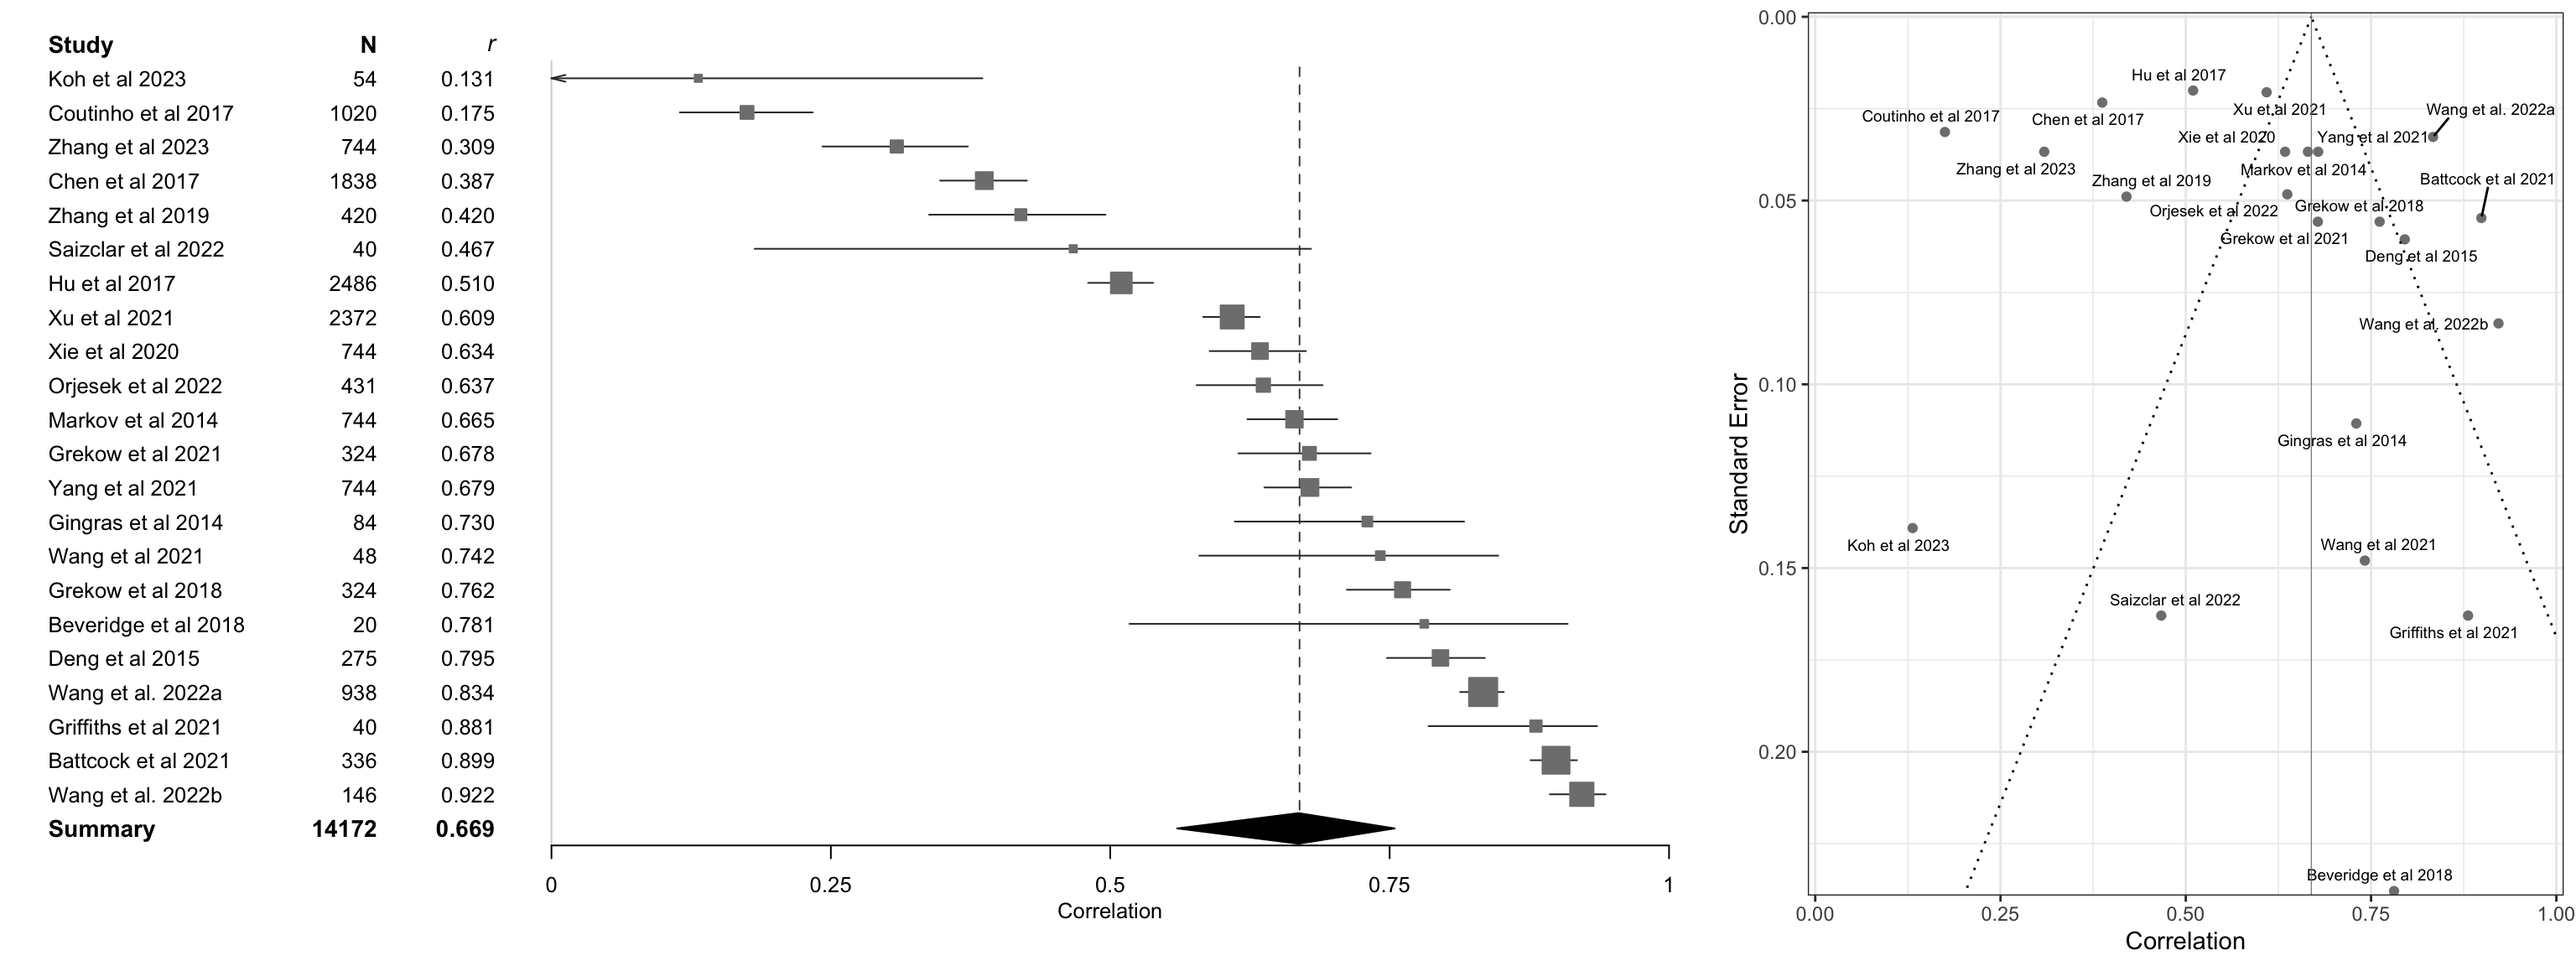
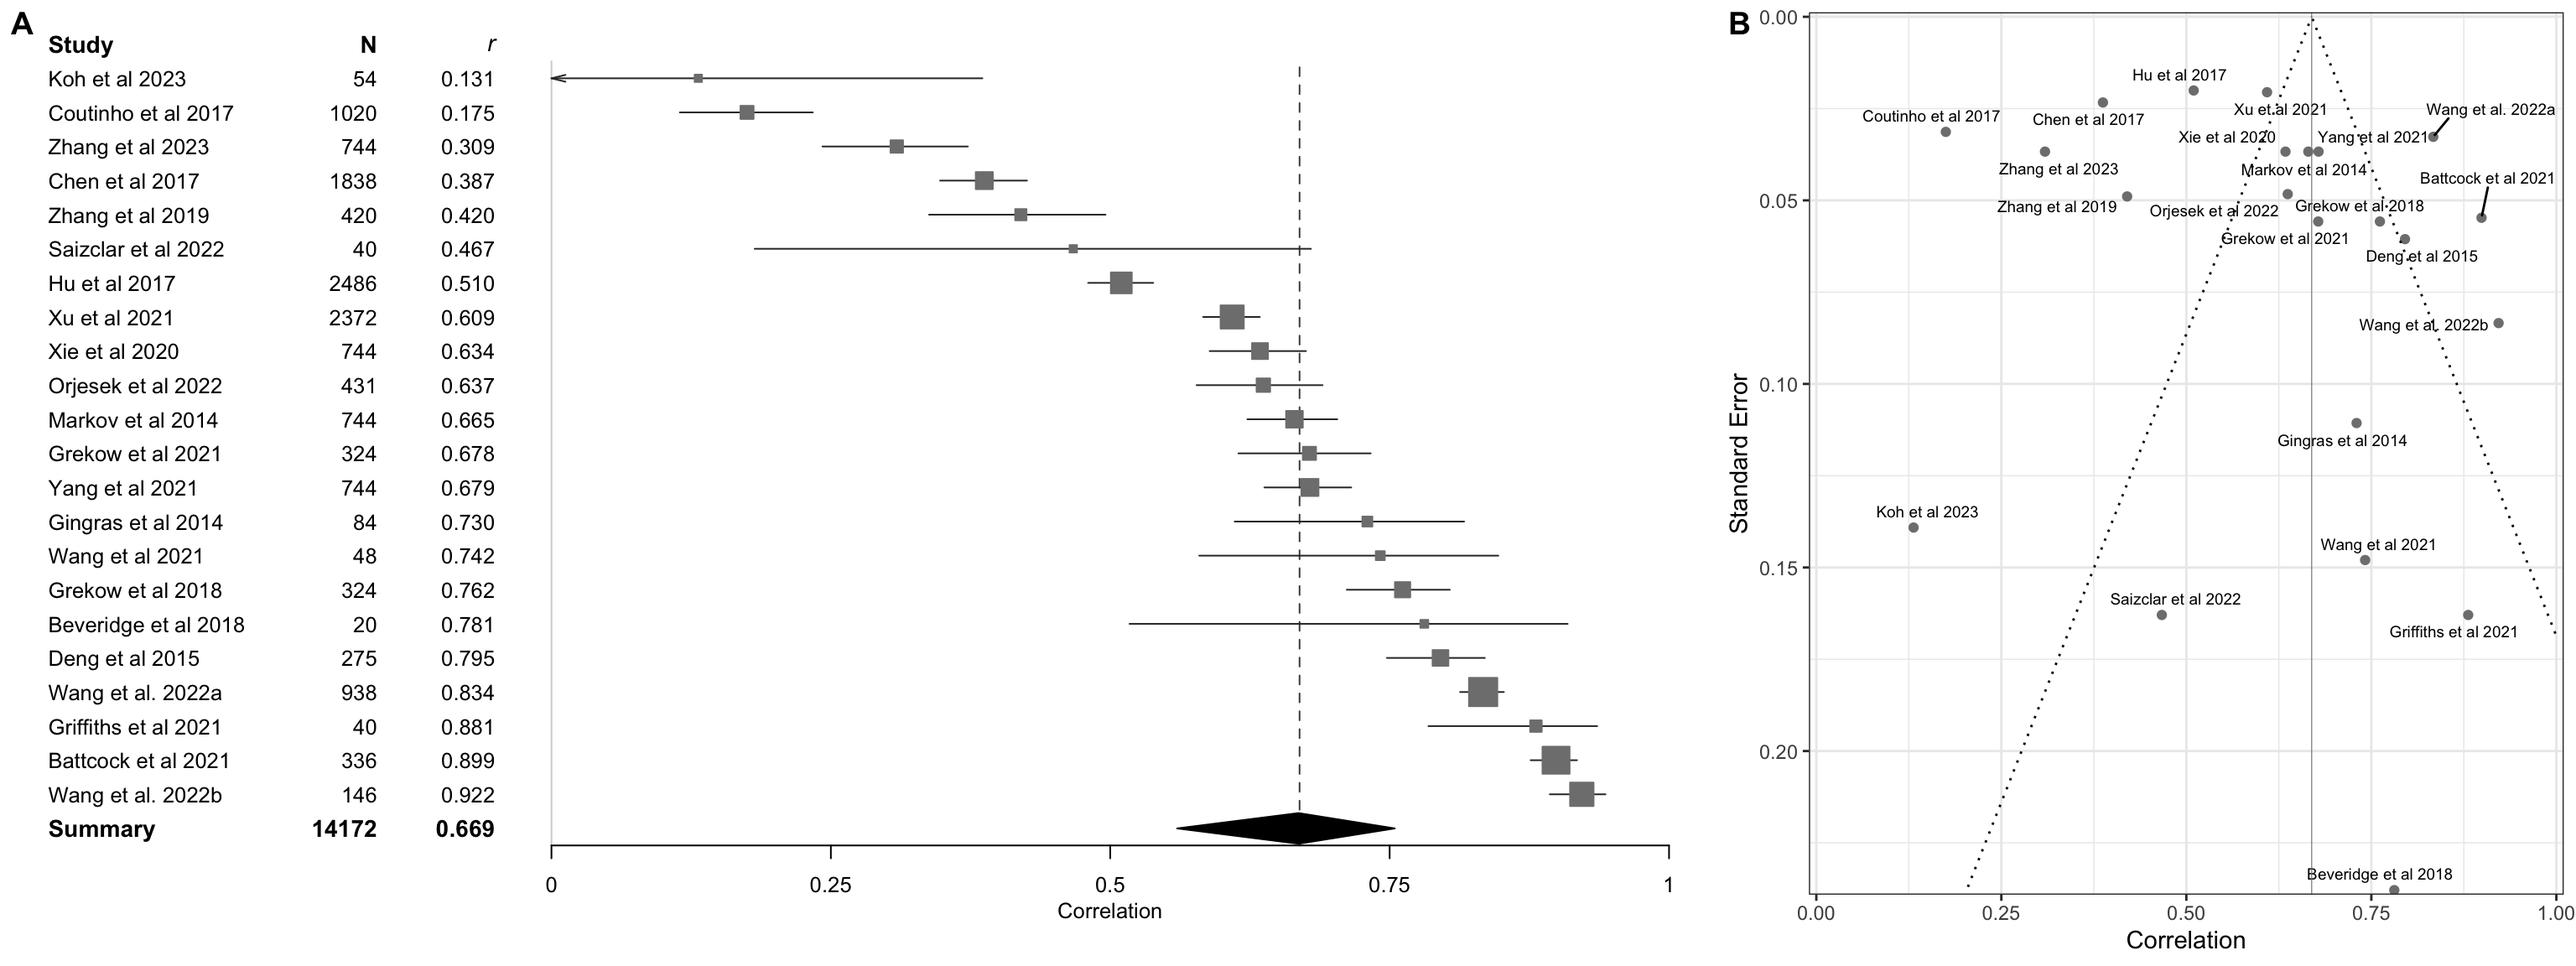
updated manuscript up to arousal. A mod to renv.lock added ggpubr package

diff --git a/docs/manuscript/manuscript.html b/docs/manuscript/manuscript.html
@@ -626,7 +626,7 @@ window.Quarto = {
 </section>
 <section id="results-for-arousal" class="level3">
 <h3 class="anchored" data-anchor-id="results-for-arousal">Results for arousal</h3>
-<p>Moving on the arousal, we carry out the same meta-analytical analysis applying the random-effects model to arousal. Table 3 describes the broad pattern of results in tabular format, and Figure 3 illustrates the spread and heterogeneity of all studies for arousal. The overall correlation across the studies using the best performing model out of each study (Max) is 0.807 (CI95% 0.745-0.855). If we examine all the models reported in each study, the correlation drops marginally, to 0.784 (CI95% 0.765-0.801), despite this analysis includes about five times as many models as taking the best model out of each study. For arousal, even the baseline models seem to be performing on a relative high level. However, the indicators of heterogeneity are again high (<span class="math inline">\(\tau^2\)</span> = 0.155 and <span class="math inline">\(I^2\)</span>=96.8%), which suggests that summary may be misleading. However, the analysis of asymmetry does not reveal significant issues (Eggers test, <span class="math inline">\(\beta\)</span> = 0.787 95%CI -4.61-6.18, <em>t</em> = 0.286, <em>p</em> = 0.778). If we remove the studies that are outside the 95%CI in heterogeneity, leaves this 14 studies in the summary that has <em>r</em> = 0.8182 (95%CI 0.802-0.833) with <span class="math inline">\(\tau^2\)</span> = 0.0038 and <span class="math inline">\(I^2\)</span> = 76.0%. In other words, no material difference to the results obtained with all 24 studies.</p>
+<p>Moving on the arousal, we carry out the same meta-analytical analysis applying the random-effects model to arousal. Table 3 describes the broad pattern of results in tabular format, and Figure 3 illustrates the spread and heterogeneity of all studies for arousal. The overall correlation across the studies using the best performing model out of each study (Max) is 0.809 (CI95% 0.740-0.860). If we examine all the models reported in each study, the correlation drops marginally, to 0.791 (CI95% 0.770-0.810), despite this analysis includes about four times as many models as taking the best model out of each study. For arousal, even the baseline models seem to be performing on a relative high level. However, the indicators of heterogeneity are again high (<span class="math inline">\(\tau^2\)</span> = 0.141 and <span class="math inline">\(I^2\)</span>=97.9%), which suggests that summary may be misleading. However, the analysis of asymmetry does not reveal significant issues (Eggers test, <span class="math inline">\(\beta\)</span> = 0.789 95%CI -4.87-6.45, <em>t</em> = 0.273, <em>p</em> = 0.788). If we remove the studies that are outside the 95%CI in heterogeneity, leaves this 13 studies in the summary that has <em>r</em> = 0.826 (95%CI 0.806-0.845) with <span class="math inline">\(\tau^2\)</span> = 0.0042 and <span class="math inline">\(I^2\)</span> = 76.8%. In other words, no material difference to the results obtained with all 22 studies.</p>
 <p>Table 3. Meta-analytic diagnostic for all regression studies predicting arousal from audio.</p>
 <table class="table">
 <colgroup>
@@ -652,21 +652,21 @@ window.Quarto = {
 <tbody>
 <tr class="odd">
 <td style="text-align: left;">Arousal All</td>
-<td style="text-align: left;">90, 61733</td>
-<td style="text-align: left;">0.795 [0.774-0.814]</td>
-<td style="text-align: left;">39.4</td>
+<td style="text-align: left;">102, 60017</td>
+<td style="text-align: left;">0.791 [0.770-0.810]</td>
+<td style="text-align: left;">39.9</td>
 <td style="text-align: left;">0.0001</td>
-<td style="text-align: left;">0.064</td>
-<td style="text-align: left;">96.3%</td>
+<td style="text-align: left;">0.069</td>
+<td style="text-align: left;">96.2%</td>
 </tr>
 <tr class="even">
 <td style="text-align: left;">Arousal Max</td>
-<td style="text-align: left;">21, 13572</td>
-<td style="text-align: left;">0.815 [0.749-0.865]</td>
-<td style="text-align: left;">14.0</td>
+<td style="text-align: left;">22, 14172</td>
+<td style="text-align: left;">0.809 [0.740-0.860]</td>
+<td style="text-align: left;">13.6</td>
 <td style="text-align: left;">0.0001</td>
-<td style="text-align: left;">0.131</td>
-<td style="text-align: left;">97.7%</td>
+<td style="text-align: left;">0.141</td>
+<td style="text-align: left;">97.9%</td>
 </tr>
 <tr class="odd">
 <td style="text-align: left;"><em>N Features</em></td>
@@ -679,30 +679,30 @@ window.Quarto = {
 </tr>
 <tr class="even">
 <td style="text-align: left;">&lt;18 F</td>
-<td style="text-align: left;">5, 3036</td>
-<td style="text-align: left;">0.811 [0.534-0.931]</td>
+<td style="text-align: left;">4, 3016</td>
+<td style="text-align: left;">0.817 [0.361-0.958]</td>
 <td style="text-align: left;"></td>
 <td style="text-align: left;"></td>
-<td style="text-align: left;">0.1815</td>
-<td style="text-align: left;">98.9%</td>
+<td style="text-align: left;">0.2295</td>
+<td style="text-align: left;">99.2%</td>
 </tr>
 <tr class="odd">
 <td style="text-align: left;">18-260 F</td>
-<td style="text-align: left;">11, 7042</td>
-<td style="text-align: left;">0.584 [0.534-0.931]</td>
+<td style="text-align: left;">10, 4222</td>
+<td style="text-align: left;">0.586 [0.356-0.748]</td>
 <td style="text-align: left;"></td>
 <td style="text-align: left;"></td>
-<td style="text-align: left;">0.1331</td>
-<td style="text-align: left;">97.6%</td>
+<td style="text-align: left;">0.1542</td>
+<td style="text-align: left;">96.9%</td>
 </tr>
 <tr class="even">
 <td style="text-align: left;">260+ F</td>
-<td style="text-align: left;">5, 3494</td>
-<td style="text-align: left;">0.710 [0.542-0.823]</td>
+<td style="text-align: left;">7, 6190</td>
+<td style="text-align: left;">0.702 [0.612-0.774]</td>
 <td style="text-align: left;"></td>
 <td style="text-align: left;"></td>
-<td style="text-align: left;">0.0435</td>
-<td style="text-align: left;">97.2%</td>
+<td style="text-align: left;">0.0285</td>
+<td style="text-align: left;">96.6%</td>
 </tr>
 <tr class="odd">
 <td style="text-align: left;"><em>Techniques</em></td>
@@ -715,17 +715,17 @@ window.Quarto = {
 </tr>
 <tr class="even">
 <td style="text-align: left;">KS</td>
-<td style="text-align: left;">2, 2582</td>
-<td style="text-align: left;">0.807 [0.549-0.924]</td>
+<td style="text-align: left;">1, 1838</td>
+<td style="text-align: left;">0.819 [0.803-0.833]</td>
 <td style="text-align: left;"></td>
 <td style="text-align: left;"></td>
-<td style="text-align: left;">0.0022</td>
-<td style="text-align: left;">70.0%</td>
+<td style="text-align: left;">-</td>
+<td style="text-align: left;">-</td>
 </tr>
 <tr class="odd">
 <td style="text-align: left;">LM</td>
-<td style="text-align: left;">7, 1438</td>
-<td style="text-align: left;">0.885 [0.796-0.936]</td>
+<td style="text-align: left;">8, 1762</td>
+<td style="text-align: left;">0.881 [0.808-0.928]</td>
 <td style="text-align: left;"></td>
 <td style="text-align: left;"></td>
 <td style="text-align: left;">0.0846</td>
@@ -742,8 +742,8 @@ window.Quarto = {
 </tr>
 <tr class="odd">
 <td style="text-align: left;">NN</td>
-<td style="text-align: left;">3, 1229</td>
-<td style="text-align: left;">0.533 [0.082-0.803]</td>
+<td style="text-align: left;">4, 2249</td>
+<td style="text-align: left;">0.533 [0.328-0.691]</td>
 <td style="text-align: left;"></td>
 <td style="text-align: left;"></td>
 <td style="text-align: left;">0.0190</td>
@@ -755,13 +755,16 @@ window.Quarto = {
 <td style="text-align: left;">0.809 [0.733-0.864]</td>
 <td style="text-align: left;"></td>
 <td style="text-align: left;"></td>
-<td style="text-align: left;">0.0012</td>
-<td style="text-align: left;">52.7%</td>
+<td style="text-align: left;">0.0025</td>
+<td style="text-align: left;">65.4%</td>
 </tr>
 </tbody>
 </table>
-<p>The forest plot in Figure 3 reveals</p>
-<p>The subdivision of studies shows…</p>
+<!-- numbers in the text updated up to here, TE 22/1/2025 -->
+<!-- Schwarzer and colleagues (Schwarzer, Carpenter, and Rücker 2015, chap. 4.3) mention, as a general rule of thumb, that subgroup analyses only make sense when your meta-analysis contains at least 
+K= 10 studies.-->
+<p>Figure 3 presents (A) a forest and (B) funnel plot of the random-effects model of the best-performing models from all studies. Similarly to valence, the range of correlations is also wide for arousal, ranging from 0.35 to 0.95, with all studies demonstrating evidence of positive correlations. A mean estimate of 0.81 or higher is achieved by the majority (15 out of the 22 models). Due to large sample in ost studies, the confidence intervals are narrow, although the exceptions (<span class="math inline">\(N &lt; 55\)</span>) are clearly visible <span class="citation" data-cites="beveridge2018po griffiths2021am koh2023me saizclar2022pr wang2021ac">(<a href="#ref-beveridge2018po" role="doc-biblioref">Beveridge &amp; Knox, 2018</a>; <a href="#ref-griffiths2021am" role="doc-biblioref">Griffiths et al., 2021</a>; <a href="#ref-koh2023me" role="doc-biblioref">Koh et al., 2023</a>; <a href="#ref-saizclar2022pr" role="doc-biblioref">Saiz-Clar et al., 2022</a>; <a href="#ref-wang2021ac" role="doc-biblioref">Wang et al., 2021</a>)</span>. The funnel plot in panel B illustrates the limited range of the correlations and show heavy clustering at the top of the plot (studies with low standard error). There is no clear asymmetry in the plot, verified by non-significant Egger’s test reported above.</p>
+<p>The analysis of the subdivision of studies shows that there is no significant differences between the studies using different number of features (<em>Q</em>(2) = 3.47, <em>p</em> = .176) despite the differing means (<em>r</em> = 0.817 for studies with less than 18 features, <em>r</em> = 0.586 for 18 to 260 features, and <em>r</em> = 0.702 for studies utilising over 260 features). The differences in the techniques, however, does show variance between subgroups that is statistically significant (<em>Q</em>(4) = 50.47, <em>p</em> &lt; .0001), where at least Neural Nets achieve poor prediction of arousal (<em>r</em> = 0.533) in comparison to other techniques. The caveat of this subgroup analysis is the small number of observations for five techniques. When other subgroupings were explored, such as the type of journal (Engineering with 13 studies vs Psychology with 9 studies), no significant differences were observed (<em>Q</em>(1) = 0.94, <em>p</em> = .333).</p>
 <div class="cell">
 <div class="cell-output-display">
 <div class="quarto-figure quarto-figure-center">
@@ -974,6 +977,9 @@ Katayose, H., Imai, M., &amp; Inokuchi, S. (1988). Sentiment extraction in music
 <div id="ref-knapp2003improved" class="csl-entry" role="listitem">
 Knapp, G., &amp; Hartung, J. (2003). Improved tests for a random effects meta-regression with a single covariate. <em>Statistics in Medicine</em>, <em>22</em>(17), 2693–2710.
 </div>
+<div id="ref-koh2023me" class="csl-entry" role="listitem">
+Koh, E. Y., Cheuk, K. W., Heung, K. Y., Agres, K. R., &amp; Herremans, D. (2023). MERP: A music dataset with emotion ratings and raters’ profile information. <em>SENSORS</em>, <em>23</em>(1). <a href="https://doi.org/10.3390/s23010382">https://doi.org/10.3390/s23010382</a>
+</div>
 <div id="ref-langan2019comparison" class="csl-entry" role="listitem">
 Langan, D., Higgins, J. P., Jackson, D., Bowden, J., Veroniki, A. A., Kontopantelis, E., Viechtbauer, W., &amp; Simmonds, M. (2019). A comparison of heterogeneity variance estimators in simulated random-effects meta-analyses. <em>Research Synthesis Methods</em>, <em>10</em>(1), 83–98.
 </div>
@@ -1007,11 +1013,17 @@ Russell, J. A. (1980). A circumplex model of affect. <em>Journal of Personality 
 <div id="ref-saari_et_al_2015" class="csl-entry" role="listitem">
 Saari, P., Eerola, T., Barthet, M., Fazekas, G., &amp; Lartillot, O. (2015). Genre-adaptive semantic computing and audio-based modelling for music mood annotation. <em>IEEE Transactions on Affective Computing</em>, <em>7</em>(2), 122–135.
 </div>
+<div id="ref-saizclar2022pr" class="csl-entry" role="listitem">
+Saiz-Clar, E., Angel Serrano, M., &amp; Manuel Reales, J. (2022). Predicting emotions in music using the onset curve. <em>PSYCHOLOGY OF MUSIC</em>, <em>50</em>(4), 1107–1120. <a href="https://doi.org/10.1177/03057356211031658">https://doi.org/10.1177/03057356211031658</a>
+</div>
 <div id="ref-sarkar2020recognition" class="csl-entry" role="listitem">
 Sarkar, R., Choudhury, S., Dutta, S., Roy, A., &amp; Saha, S. K. (2020). Recognition of emotion in music based on deep convolutional neural network. <em>Multimedia Tools and Applications</em>, <em>79</em>(1), 765–783.
 </div>
 <div id="ref-van-aertwicherts_2016" class="csl-entry" role="listitem">
 Van Aert, R. C., Wicherts, J. M., &amp; Assen, M. A. van. (2016). Conducting meta-analyses based on p values: Reservations and recommendations for applying p-uniform and p-curve. <em>Perspectives on Psychological Science</em>, <em>11</em>(5), 713–729.
+</div>
+<div id="ref-wang2021ac" class="csl-entry" role="listitem">
+Wang, X., Wei, Y., Heng, L., &amp; McAdams, S. (2021). A cross-cultural analysis of the influence of timbre on affect perception in western classical music and chinese music traditions. <em>FRONTIERS IN PSYCHOLOGY</em>, <em>12</em>. <a href="https://doi.org/10.3389/fpsyg.2021.732865">https://doi.org/10.3389/fpsyg.2021.732865</a>
 </div>
 <div id="ref-yang2008" class="csl-entry" role="listitem">
 Yang, Y. H., Lin, Y. C., Su, Y. F., &amp; Chen, H. H. (2008). <span class="nocase">A regression approach to music emotion recognition</span>. <em>IEEE Transactions on Audio Speech and Language Processing</em>, <em>16</em>(2), 448–457.

diff --git a/manuscript/_figure2.html b/manuscript/_figure2.html
@@ -62,14 +62,21 @@ Loading the 'metafor' package (version 4.6-0). For an
 introduction to the package please type: help(metafor)</code></pre>
 </div>
 <div class="cell-output cell-output-stderr">
+<pre><code>Registered S3 method overwritten by 'netmeta':
+  method          from
+  subset.pairwise meta</code></pre>
+</div>
+<div class="cell-output cell-output-stderr">
+<pre><code>Warning: replacing previous import 'meta::pairwise' by 'netmeta::pairwise' when
+loading 'dmetar'</code></pre>
+</div>
+<div class="cell-output cell-output-stderr">
 <pre><code>Extensive documentation for the dmetar package can be found at: 
  www.bookdown.org/MathiasHarrer/Doing_Meta_Analysis_in_R/</code></pre>
 </div>
 <div class="cell-output cell-output-stderr">
-<pre><code>Loading 'meta' package (version 7.0-0).
-Type 'help(meta)' for a brief overview.
-Readers of 'Meta-Analysis with R (Use R!)' should install
-older version of 'meta' package: https://tinyurl.com/dt4y5drs</code></pre>
+<pre><code>Loading 'meta' package (version 8.0-1).
+Type 'help(meta)' for a brief overview.</code></pre>
 </div>
 <div class="cell-output cell-output-stderr">
 <pre><code>Loading required package: grid</code></pre>
@@ -85,14 +92,14 @@ older version of 'meta' package: https://tinyurl.com/dt4y5drs</code></pre>
 (`geom_line()`).</code></pre>
 </div>
 <div class="cell-output cell-output-stderr">
-<pre><code>Warning: Removed 750 rows containing missing values or values outside the scale range
+<pre><code>Warning: Removed 753 rows containing missing values or values outside the scale range
 (`geom_line()`).</code></pre>
 </div>
 <div class="cell-output-display">
 <div class="quarto-figure quarto-figure-center">
 <figure class="figure">
 <p><img src="_figure2_files/figure-html/fig2-1.png" class="img-fluid figure-img" width="1536"></p>
-<figcaption>Forest and funnel plots of valence predictions from the MER models.</figcaption>
+<figcaption>Forest (A) and funnel (B) plots of the best valence models from all MER studies.</figcaption>
 </figure>
 </div>
 </div>
